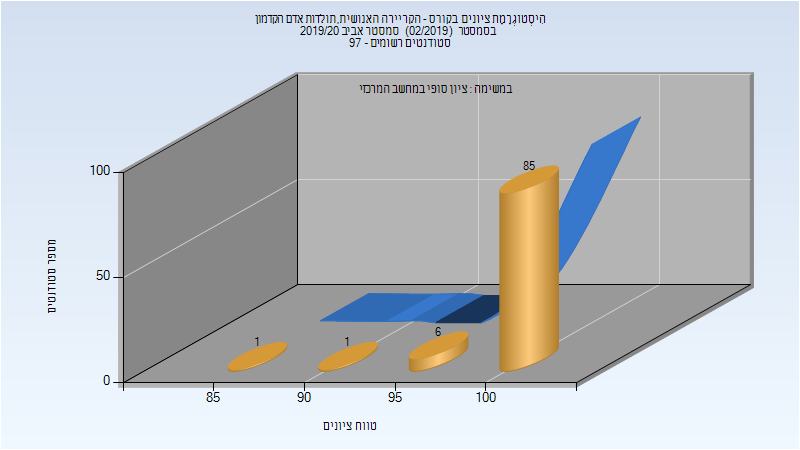
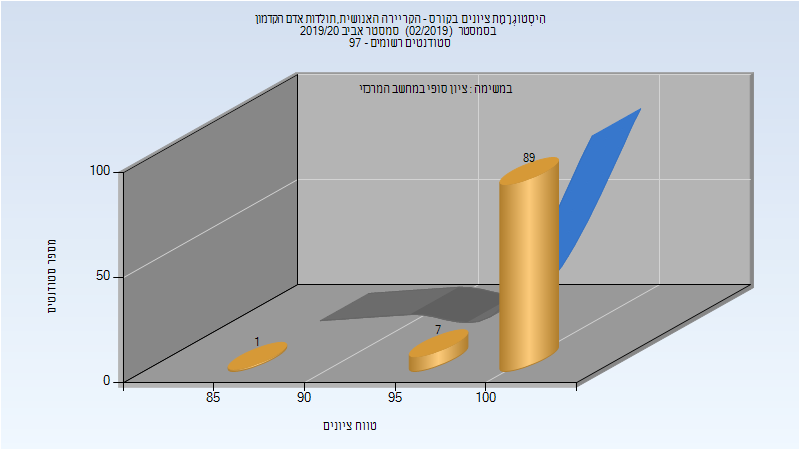
Deploy michael-maltsev/technion-histograms to github.com/michael-maltsev/technion-histograms.git:gh-pages

Changed region(s): [[0.4062, 0.6222, 0.625, 0.8089], [0.625, 0.2489, 0.8125, 0.4667], [0.375, 0.7467, 0.4688, 0.84]]

diff --git a/324965/index.html b/324965/index.html
@@ -477,12 +477,12 @@
 </thead>
 <tbody>
 <tr>
-<td>93</td>
-<td>93/0</td>
+<td>97</td>
+<td>97/0</td>
 <td>100</td>
 <td>85</td>
 <td>100</td>
-<td>99.409</td>
+<td>99.485</td>
 <td>100</td>
 </tr>
 </tbody>

diff --git a/324965/README.md b/324965/README.md
@@ -146,5 +146,5 @@
 
 | סטודנטים | עברו/נכשלו | אחוז עוברים | ציון מינימלי | ציון מקסימלי | ממוצע | חציון |
 | ---- | ---- | ---- | ---- | ---- | ---- | ---- |
-| 93 | 93/0 | 100 | 85 | 100 | 99.409 | 100 |
+| 97 | 97/0 | 100 | 85 | 100 | 99.485 | 100 |
 
